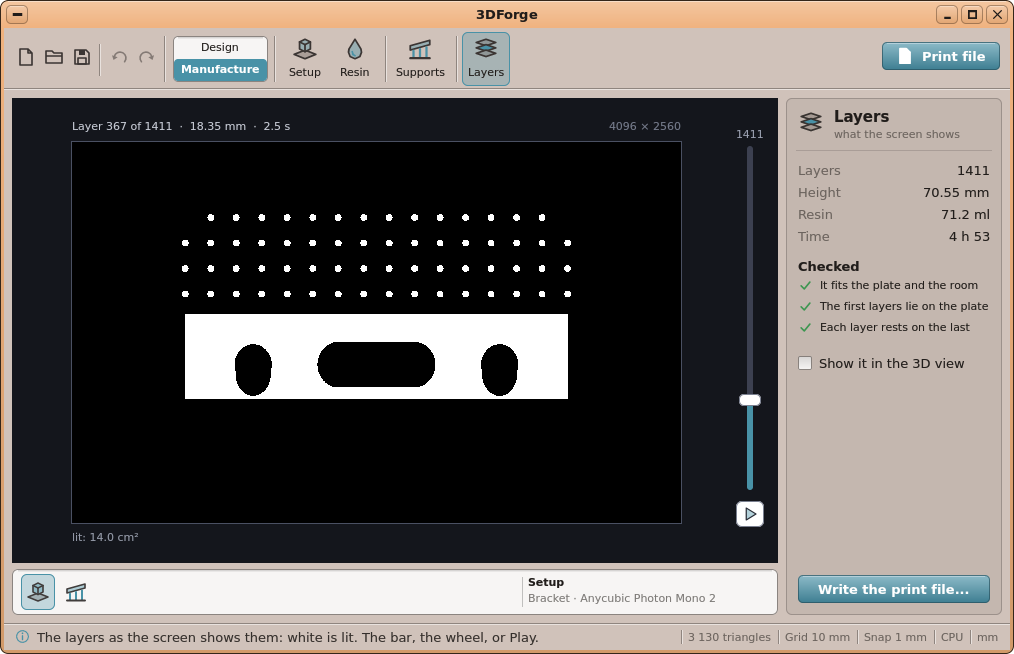
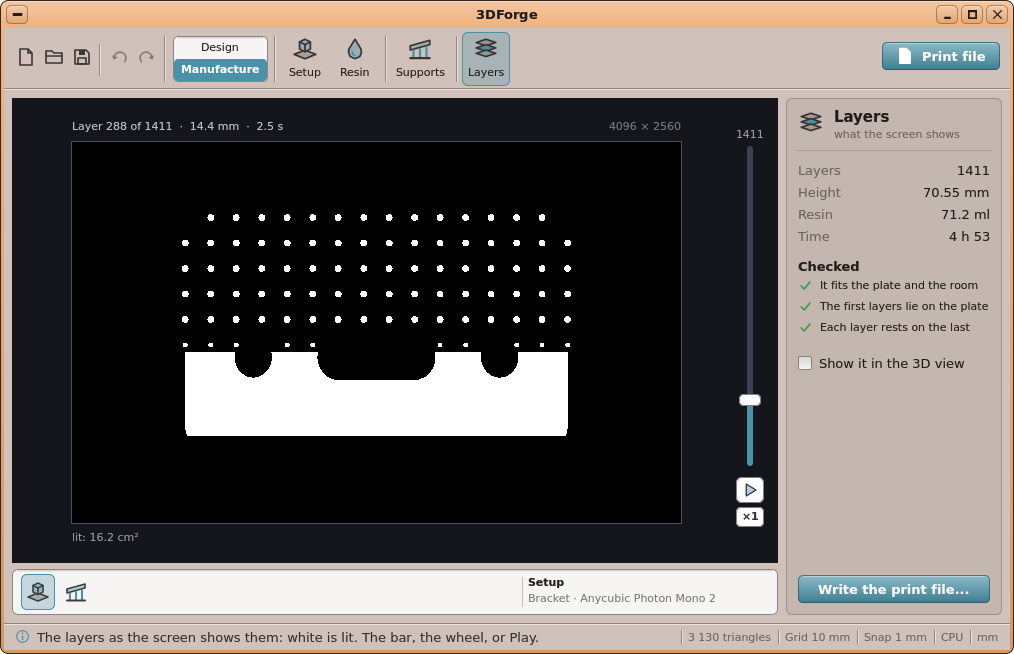
3DForge: what is played -- the router's cut, the resin's layers, the filament's bead -- has a speed, a quarter to eight times

Changed region(s): [[0.1834, 0.4587, 0.5809, 0.6728], [0.7032, 0.7034, 0.7643, 0.7951], [0.1834, 0.1835, 0.2751, 0.2141]]

diff --git a/user/Apps/3dforge/fview.h b/user/Apps/3dforge/fview.h
@@ -67,6 +67,7 @@ struct App
 	// Manufacture (fcam.h): the setup and its operations, their moves; what the panel shows -- camSel: 0 the setup,
 	// k: its operation k - 1; camPage: 0 the setup, 1 the tool, 2 the operation
 	CamSetup job; CamPaths paths; RMesh stockMesh;
+	int speedIx = 2; double playAcc = 0;	// (what is played -- the cut, the layers, the bead --: how fast, PLAY_SPEEDS; what is left over a turn)
 	CamSetup jobOk;				// (the setup the moves were made from: what Cancel puts back. camDirty: values changed since)
 	bool camMode = false, camSim = false, camDirty = false; int camSel = 0, camPage = 0; unsigned camDirtyT = 0;
 	std::vector<float> simHm; size_t simAt = 0; bool simPlay = false; unsigned simT = 0;	// (the simulation played: the stock so far, the moves done)
@@ -554,6 +555,14 @@ static void cam_delete_op ()
 }
 
 // ---- Manufacture for a resin printer ------------------------------------------------------------------------------------------
+static const double PLAY_SPEEDS[6] = { 0.25, 0.5, 1, 2, 4, 8 };
+static const char *const PLAY_NAMES[6] = { "\xC3\x97\xC2\xBC", "\xC3\x97\xC2\xBD", "\xC3\x97" "1", "\xC3\x97" "2", "\xC3\x97" "4", "\xC3\x97" "8" };
+static double play_speed () { return PLAY_SPEEDS[A.speedIx < 0 || A.speedIx > 5 ? 2 : A.speedIx]; }
+// How many steps this turn at the speed chosen, `each` being a turn's at normal speed (the fraction left is kept).
+static long play_steps (double each)
+{
+	A.playAcc += each * play_speed (); long n = (long) A.playAcc; A.playAcc -= n; return n;
+}
 static bool resin () { return A.camMode && A.gen == 1; }
 static bool filament () { return A.camMode && A.gen == 2; }
 static bool printer () { return A.camMode && A.gen >= 1; }
@@ -805,7 +814,7 @@ public:
 	void barGeom (int *bx, int *y0, int *y1) const
 	{
 		bool side = !(printer () && A.camPage == 3 && !A.layer3d);
-		*bx = side ? 14 : width - 40; *y0 = side ? 66 : 48; *y1 = height - (side ? 124 : 74);
+		*bx = side ? 14 : width - 40; *y0 = side ? 66 : 48; *y1 = height - (side ? 150 : 98);
 	}
 	void vbar (bool dark, double frac, const char *top, bool playing)
 	{
@@ -823,12 +832,17 @@ public:
 		uk_rbox (canvas, bx - 2, y1 + 12, 28, 26, 6, 0xFFFFFF, 0xFFFFFF); uk_rline (canvas, bx - 2, y1 + 12, 28, 26, 6, 0x7A8090);
 		if (playing) { canvas.fillRect (bx + 6, y1 + 19, 4, 12, 0x2A2E38); canvas.fillRect (bx + 14, y1 + 19, 4, 12, 0x2A2E38); }
 		else icon (canvas, I_PLAY, bx + 3, y1 + 16, 18, 0x2A2E38, C_ACCENT, 0xFFFFFF);
+		// its speed: a click goes to the next one (a quarter .. eight times)
+		const char *sp = PLAY_NAMES[A.speedIx < 0 || A.speedIx > 5 ? 2 : A.speedIx];
+		uk_rbox (canvas, bx - 2, y1 + 42, 28, 20, 5, 0xFFFFFF, 0xFFFFFF); uk_rline (canvas, bx - 2, y1 + 42, 28, 20, 5, 0x7A8090);
+		uk_text (canvas, bx + 12 - uk_tw (sp, 2) / 2, y1 + 42 + (20 - uk_fh ()) / 2, sp, A.speedIx == 2 ? 0x2A2E38 : 0x1E5AB4, 2);
 	}
-	// The mouse on it: 1 Play pressed, 2 the bar held (*frac: where), 0 elsewhere.
+	// The mouse on it: 1 Play pressed, 2 the bar held (*frac: where), 3 the speed changed, 0 elsewhere.
 	int barMouse (int mx, int my, int bl, bool press, double *frac)
 	{
 		int bx, y0, y1; barGeom (&bx, &y0, &y1);
 		if (!bl) barHeld = false;
+		if (press && mx >= bx - 4 && mx < bx + 30 && my >= y1 + 41 && my < y1 + 64) { A.speedIx = (A.speedIx + 1) % 6; A.playAcc = 0; invalidate (true); return 3; }
 		if (press && mx >= bx - 4 && mx < bx + 30 && my >= y1 + 10 && my < y1 + 40) return 1;
 		if (press && mx >= bx - 6 && mx < bx + 32 && my >= y0 - 8 && my <= y1 + 8) barHeld = true;
 		if (!barHeld) return 0;
@@ -852,6 +866,7 @@ public:
 			A.layerPlay = !A.layerPlay; if (A.layerPlay && A.layer >= n - 1 && A.gen != 2) A.layer = 0;
 			A.fdmDrawn = A.layerPlay && A.gen == 2 ? 0 : -1; ui (0); invalidate (true); return true;
 		}
+		if (hit == 3) return true;
 		if (hit == 2) { A.layer = (int) (f * n); A.layerPlay = false; A.fdmDrawn = -1; }
 		else if (wheel && !A.layer3d) { A.layer += wheel * (n > 400 ? n / 200 : 1); A.layerPlay = false; A.fdmDrawn = -1; }
 		if (A.layer < 0) A.layer = 0; if (A.layer > n - 1) A.layer = n - 1;
@@ -863,6 +878,7 @@ public:
 	{
 		size_t n = A.paths.moves.size (); double f = 0; int hit = barMouse (mx, my, bl, press, &f);
 		if (!hit || !n) return false;
+		if (hit == 3) return true;
 		if (hit == 1) { A.simPlay = !A.simPlay; if (A.simPlay && A.simAt >= n) sim_to (0); }
 		else { A.simPlay = false; sim_to ((size_t) (f * n)); }
 		invalidate (true); return true;

diff --git a/user/Apps/3dforge/main.cpp b/user/Apps/3dforge/main.cpp
@@ -546,8 +546,9 @@ public:
 		// (Manufacture: the moves made again once the values have stopped changing for a moment)
 		if (A.camMode && A.gen == 0 && A.camSim && A.simPlay && kapi_get_ticks () - A.simT >= 3)		// (the cut played)
 		{
-			size_t n = A.paths.moves.size (), by = n / 300 < 1 ? 1 : n / 300; A.simT = kapi_get_ticks ();
-			sim_to (A.simAt + by); if (A.simAt >= n) A.simPlay = false;
+			size_t n = A.paths.moves.size (); long by = play_steps (n / 300.0 < 1 ? 1 : n / 300.0); A.simT = kapi_get_ticks ();
+			if (by > 0) sim_to (A.simAt + by);
+			if (A.simAt >= n) A.simPlay = false;
 			g_view->invalidate (true);
 		}
 		if (filament ())	// (a filament printer's: the body put again, its path made again; the path played -- a layer drawn, then the next)
@@ -556,7 +557,7 @@ public:
 			if (A.layerPlay && A.fdmReady && A.camPage == 3 && kapi_get_ticks () - A.layerT >= 2)
 			{
 				int n = (int) A.fjob.layers.size (); A.layerT = kapi_get_ticks ();
-				double total = A.layer < n ? fdm_layer_length (A.fjob.layers[A.layer]) : 0, by = total / 50 < 6 ? 6 : total / 50;
+				double total = A.layer < n ? fdm_layer_length (A.fjob.layers[A.layer]) : 0, by = (total / 50 < 6 ? 6 : total / 50) * play_speed ();
 				if (A.fdmDrawn < 0) A.fdmDrawn = 0;
 				A.fdmDrawn += by;
 				if (A.fdmDrawn >= total) { if (A.layer < n - 1) { A.layer++; A.fdmDrawn = 0; ui (0); } else { A.layerPlay = false; A.fdmDrawn = -1; ui (0); } }
@@ -581,7 +582,7 @@ public:
 			}
 			else if (A.layerPlay && A.sliced && kapi_get_ticks () - A.layerT >= 4)
 			{
-				int n = (int) A.pjob.file.layers.size (); A.layerT = kapi_get_ticks (); A.layer += n > 300 ? n / 150 : 1;
+				int n = (int) A.pjob.file.layers.size (); A.layerT = kapi_get_ticks (); A.layer += (int) play_steps (n > 300 ? n / 150.0 : 1);
 				if (A.layer >= n - 1) { A.layer = n - 1; A.layerPlay = false; }
 				ui (0); g_view->invalidate (true);
 			}

diff --git a/tools/tests/desktop_sim/forge_scene.py b/tools/tests/desktop_sim/forge_scene.py
@@ -73,7 +73,7 @@ def scene (name):
 	# layer being played (the bar dragged, Play)
 	fd = ";".join ([cam, "menu 48", w])
 	if name == "fdm": return ";".join ([fd, "menu 49", w])
-	if name == "fdm-layers": return ";".join ([fd, "menu 47", w, "move 748 425;down 748 425;move 748 420;wait;up 748 420;wait", ck ("748 487")] + ["wait"] * 28)
+	if name == "fdm-layers": return ";".join ([fd, "menu 47", w, "move 748 425;down 748 425;move 748 420;wait;up 748 420;wait", ck ("748 461")] + ["wait"] * 28)
 	raise SystemExit ("no such scene: " + name)
 
 if __name__ == "__main__":

diff --git a/docs/04-USER-GUIDE.md b/docs/04-USER-GUIDE.md
@@ -2400,8 +2400,8 @@ order they are run. Everything is kept in the `.3df`.
 the values back as they were at the last computation. (The origin and the direction of X need no computation: they
 apply at once. Asking for the G-code or the simulation validates first.) Each operation shows the length cut, its
 time and its lowest Z. **Simulate** shows what is left of the stock once every operation is done; the bar at the left goes
-through the cut — drag it — and its **Play** button runs it, the tool shown where it is (Esc comes back to the
-moves) — a hole that only a tool lying on its side could cut stays full: the router has three axes.
+through the cut — drag it — and its **Play** button runs it, the tool shown where it is; the small button under
+Play is its **speed**: a click goes from a quarter (×¼) to eight times (×8) (Esc comes back to the moves) — a hole that only a tool lying on its side could cut stays full: the router has three axes.
 
 ![Manufacture: simulated](../screenshots/3dforge-cam-sim.png)
 
@@ -2443,7 +2443,8 @@ Setup, Resin, Supports and Layers, and the button at the right **Print file**.
   the body). A click on the body adds a pillar there, a click on a pillar's tip removes it. The pillars go down to
   the plate: what hangs above another part of the body is not held by them.
 - **Layers** — the layers are cut (a bar shows how far it is; the window stays alive) and shown **as the screen
-  will light them**: white is lit. The bar at the right, or the wheel, goes through them; **Play** runs them.
+  will light them**: white is lit. The bar at the right, or the wheel, goes through them; **Play** runs them, at the
+  speed of the button under it (×¼ to ×8).
   *Show it in the 3D view* shows instead the body as it is printed up to that layer. At the right: the number of
   layers, the resin (ml), the time, and what was **checked** — it fits the plate and the room; the first layers lie
   on the plate; each layer rests on the last (a part that would start **in mid-air** is counted, with its height:
@@ -2478,7 +2479,8 @@ from this path; the path is what is shown and played).
   the first layer (its loops, how far away).
 - **Layers** — the path seen from above, a colour a kind of line: outer wall, inner walls, solid, infill, skirt.
   The bar at the right, or the wheel, goes through the layers. **Play** draws the layer as the printer would — the
-  bead laid along its path, the nozzle at its end — then the next ones. *Show it in the 3D view* shows the body
+  bead laid along its path, the nozzle at its end — then the next ones, slower or faster with the button under Play
+  (×¼ to ×8). *Show it in the 3D view* shows the body
   printed so far with the layer's lines on it. At the right: the number of layers, the length drawn, the filament
   it takes.
 
